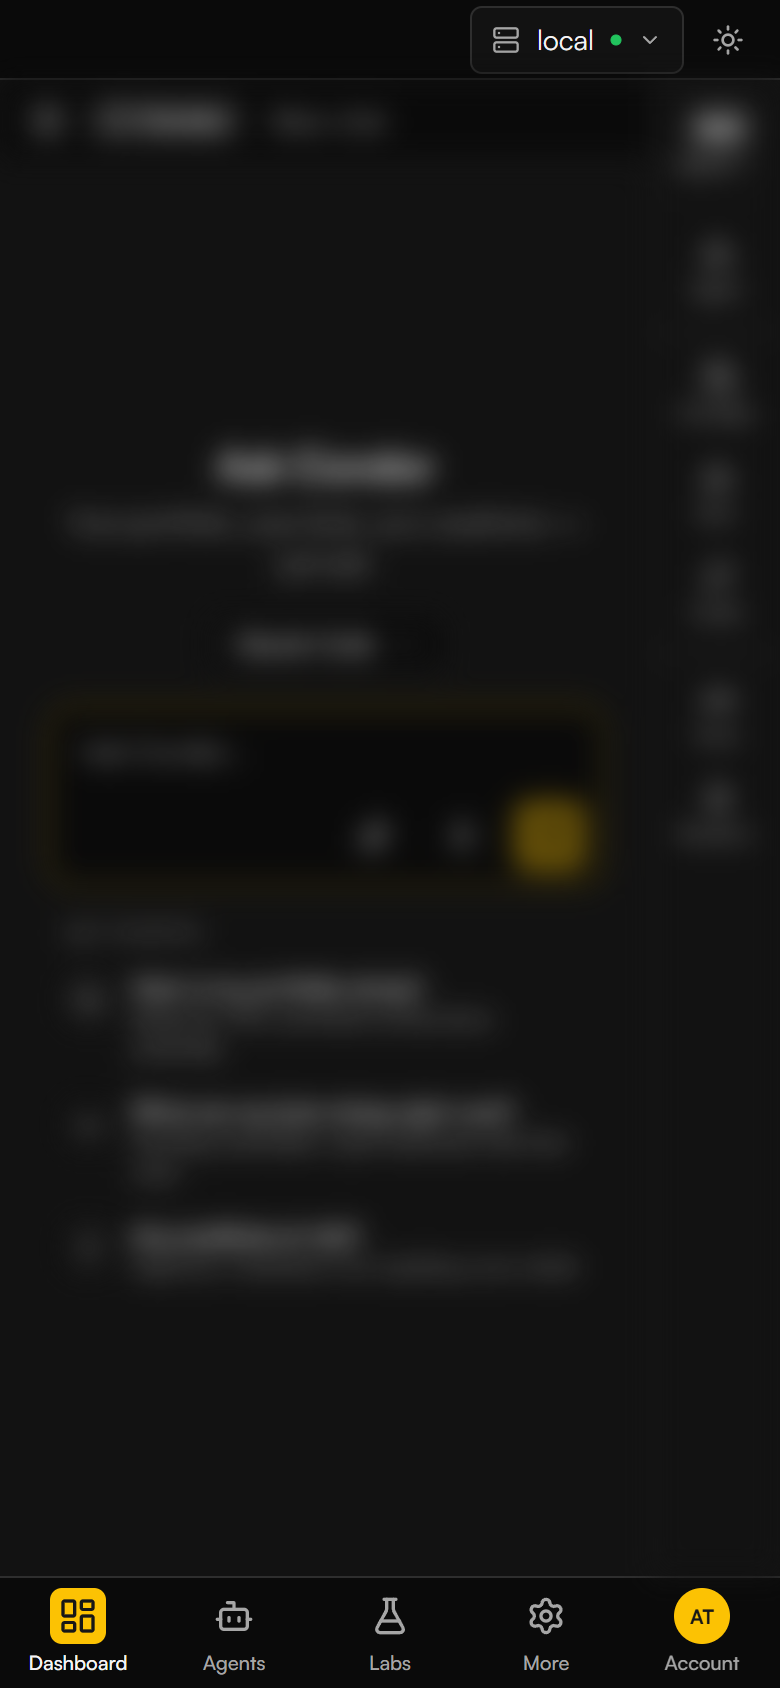
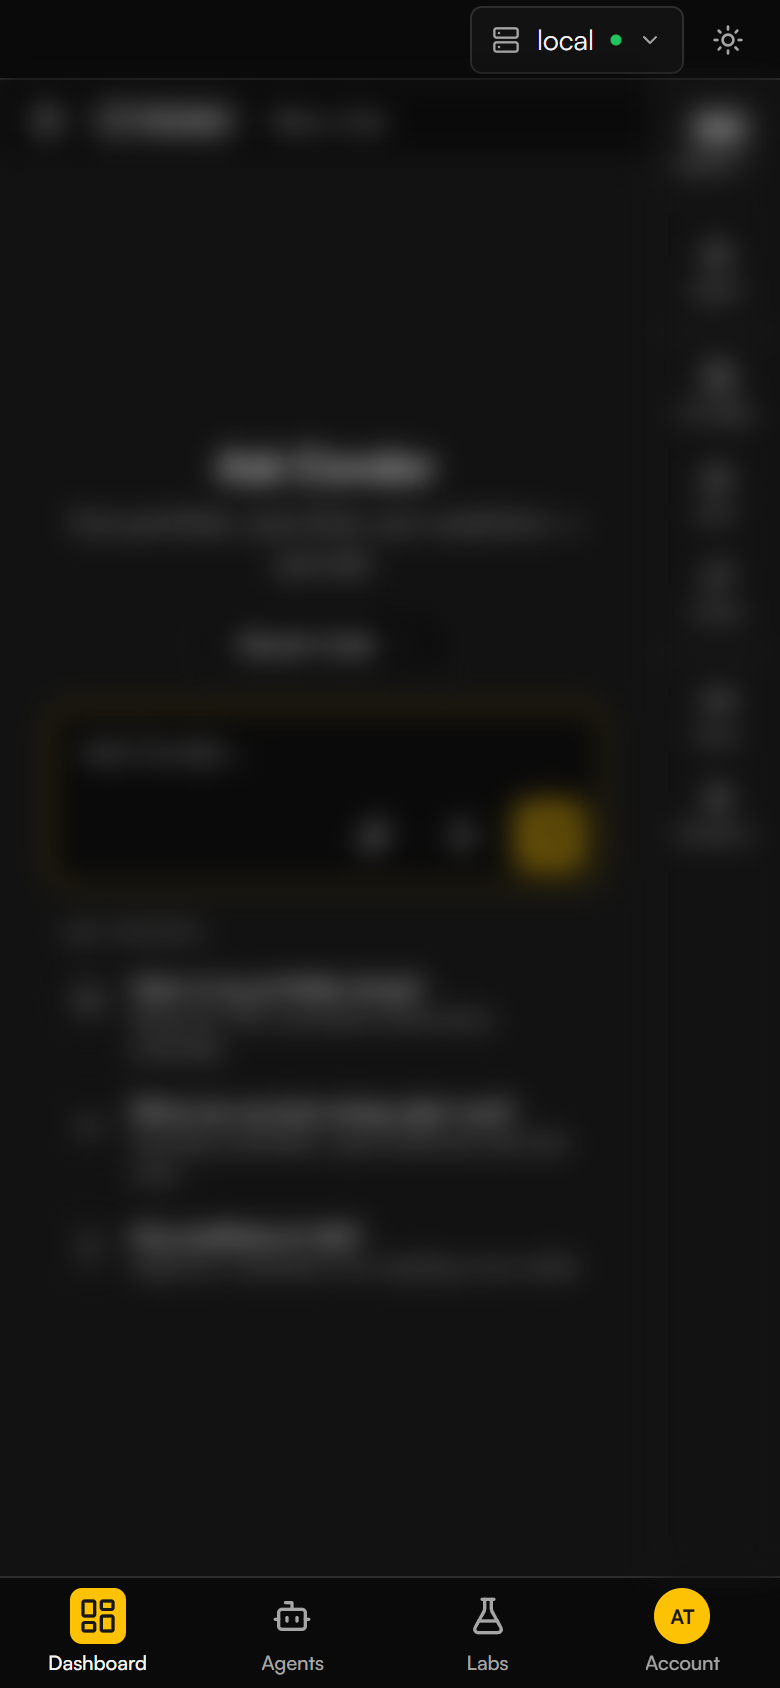
Side-rail proposal: panel design, More and Settings, four phone tabs, final images at one size

diff --git a/docs/proposals/side-rail.html b/docs/proposals/side-rail.html
@@ -16,7 +16,7 @@
 
 <h1>A left icon rail instead of the top nav</h1>
 <p class="meta">Status: <strong>in review</strong> &middot; PRs #3, #4, #6, #7 into <code>ui-redesign</code> &middot; Last updated: 2026-11-27 &middot; Branches reviewed on rn5 against an empty preview Condor</p>
-<p class="lede">Move Condor's navigation from the crowded top bar into a slim left icon rail (Dashboard, Agents, Labs and More), keep only the server, Gateway status and the mode switch in the top bar, put the user behind an initials avatar, and add a bottom tab bar on phones. The look stays the same. Only the layout changes.</p>
+<p class="lede">Move Condor's navigation from the crowded top bar into a slim left icon rail (Dashboard, Agents, Labs, More and Settings), keep only the server, Gateway status and the mode switch in the top bar, put the user behind an initials avatar, and add a bottom tab bar on phones. The look stays the same. Only the layout changes.</p>
 
 <h2 id="why">Why</h2>
 <p>The top bar carries seven page links and six controls in one 48 px strip, and it keeps growing as agents, strategies, routines and DEX tools arrive. On phones the links disappear and nothing replaces them. A left rail gives every surface a stable home and frees the top of the screen for the work.</p>
@@ -36,19 +36,25 @@
 <figure class="phone"><div class="phone-frame"><img src="assets/before-topnav-phone.png" alt="A phone showing the same Condor home: the top bar holds only the controls, with no page links"></div><figcaption>Phone (360 px wide screen, shown at its own size): no navigation links at all. The top bar holds only the controls.</figcaption></figure>
 
 <h2 id="after">After</h2>
-<p>A slim rail, a list panel, then the main area. Rail items: the logo, then Dashboard, Agents and Labs, and at the bottom More (the gear) and an initials avatar. The right side of the top bar shows only Local (the server), Gateway status and Switch Mode.</p>
+<p>A slim rail, a list panel, then the main area. Rail items: the logo, then Dashboard, Agents, Labs and More (the three dots), and at the bottom Settings (the gear) and an initials avatar. The right side of the top bar shows only Local (the server), Gateway status and Switch Mode.</p>
 
 <h3>The rail (PR #3)</h3>
-<figure class="wide"><img src="assets/rail-1-rail.png" alt="Condor with the left icon rail: Dashboard, Agents, Labs, More and the user initials; the page body is blurred. The top bar shows Local, Gateway status and Switch Mode"><figcaption>Labels appear on hover and keyboard focus. Left rail shows: Dashboard, Agents, Labs, Settings, User Initial.</figcaption></figure>
-<figure class="wide"><img src="assets/rail-2-more-menu.png" alt="The rail with the More dropdown open: Hummingbot API, Gateway, Keys and Wallets, Servers, Updates, Report an Issue; the page body is blurred"><figcaption>The More dropdown holds Hummingbot API, Gateway, Keys and Wallets, Servers, Updates and Report an Issue. The first five open the matching Settings tab.</figcaption></figure>
+<figure class="wide"><img src="assets/rail-1-rail.png" alt="Condor with the left icon rail: Dashboard, Agents, Labs, More and the user initials; the page body is blurred. The top bar shows Local, Gateway status and Switch Mode"><figcaption>Labels appear on hover and keyboard focus. Left rail shows: Dashboard, Agents, Labs, More, Settings, User Initial.</figcaption></figure>
+<figure class="wide"><img src="assets/rail-2-more-menu.png" alt="The rail with the More panel open beside it: Hummingbot API, Gateway, Keys and Wallets, Servers, Updates, Report an Issue; the page body is blurred"><figcaption>The More dots open a small vertical panel beside the rail, titled More: Hummingbot API, Gateway, Keys and Wallets, Servers, Updates and Report an Issue. The first five open the matching Settings tab.</figcaption></figure>
+
+<figure class="wide"><img src="assets/rail-3-settings-menu.png" alt="The rail with the Settings panel open beside it: Agents, LLM Endpoints, Voice and AI, Appearance, Privacy; the page body is blurred"><figcaption>The Settings gear opens a small vertical panel beside the rail, titled Settings: Agents, LLM Endpoints, Voice &amp; AI, Appearance and Privacy. It is a different list from More.</figcaption></figure>
 
 <h3>The avatar menu (PR #4)</h3>
 <figure class="wide"><img src="assets/avatar-1-menu.png" alt="The rail with the avatar popup open: the user name Algo Trader with the ADMIN role, and Logout; the page body is blurred"><figcaption>The popup shows only the user name with the ADMIN role, and Logout.</figcaption></figure>
 
 <h3>Phones (PR #6)</h3>
-<p>Below 768 px the left rail is replaced by a bottom tab bar with the same doors: Dashboard, Agents, Labs and More, plus an Account tab (the user's initials). More opens a sheet with the same six entries as the desktop menu: Hummingbot API, Gateway, Keys and Wallets, Servers, Updates and Report an Issue. The Account tab opens a sheet with the user name, Admin and Logout. There is no bell. A red dot on the Account tab means the selected server is offline.</p>
-<figure class="phone"><div class="phone-frame x2"><img src="assets/phone-1-tabbar.png" alt="A phone screen with the bottom tab bar: Dashboard, Agents, Labs, More and Account; the page body is blurred"></div><figcaption>The bottom tab bar: Dashboard, Agents, Labs, More and Account. The page body is blurred.</figcaption></figure>
-<figure class="phone"><div class="phone-frame x2"><img src="assets/phone-2-more.png" alt="A phone screen with the More sheet open: Hummingbot API, Gateway, Keys and Wallets, Servers, Updates, Report an Issue"></div><figcaption>The More sheet, with its six entries.</figcaption></figure>
+<p>Below 768 px the left rail is replaced by a bottom tab bar with four tabs: Dashboard, Agents, Labs and Account (the user's initials). The Account tab opens a sheet with the user name, Admin, then More, Settings and Logout. More and Settings open the same lists as the panels on the rail. There is no bell. A red dot on the Account tab means the selected server is offline.</p>
+<div class="phone-row">
+<figure class="phone"><div class="phone-frame x2"><img src="assets/phone-1-tabbar.png" alt="A phone screen with the bottom tab bar: Dashboard, Agents, Labs and Account; the page body is blurred"></div><figcaption>The tab bar: Dashboard, Agents, Labs and Account. The page body is blurred.</figcaption></figure>
+<figure class="phone"><div class="phone-frame x2"><img src="assets/phone-2-account.png" alt="A phone screen with the Account sheet open: Algo Trader, Admin, then More, Settings and Logout"></div><figcaption>Account opens a sheet with the name, Admin, then More, Settings and Logout.</figcaption></figure>
+<figure class="phone"><div class="phone-frame x2"><img src="assets/phone-3-more.png" alt="A phone screen with the More list: Hummingbot API, Gateway, Keys and Wallets, Servers, Updates, Report an Issue, and a back arrow"></div><figcaption>More: the six entries, with a back arrow to return to the Account sheet.</figcaption></figure>
+<figure class="phone"><div class="phone-frame x2"><img src="assets/phone-4-settings.png" alt="A phone screen with the Settings list: Agents, LLM Endpoints, Voice and AI, Appearance, Privacy, and a back arrow"></div><figcaption>Settings: the five entries, with a back arrow. An open sheet covers the tab bar.</figcaption></figure>
+</div>
 
 <h3>Labs page (PR #7)</h3>
 <figure class="wide"><img src="assets/labs-1-page.png" alt="The Labs page: the Labs door in the rail is lit and the page body is blurred"><figcaption>New <code>/labs</code> page. It will hold three tools: Design, Backtest and Test Run. The page content is a placeholder for now and is blurred in the image. The old <code>/strategies</code> address redirects to <code>/labs</code>.</figcaption></figure>
@@ -57,9 +63,9 @@
 <table>
   <thead><tr><th>PR</th><th>Branch</th><th>Scope</th><th>Review status</th></tr></thead>
   <tbody>
-    <tr><td>#3</td><td><code>ui/side-rail</code></td><td>Left icon rail replaces the top bar (Dashboard, Agents, Labs, More); top bar keeps Local, Gateway status, Switch Mode; More menu with six entries; bell removed</td><td class="s tweak">Works, tweaks 1</td></tr>
+    <tr><td>#3</td><td><code>ui/side-rail</code></td><td>Left icon rail replaces the top bar (Dashboard, Agents, Labs, More with three dots); Settings gear at the foot with its own panel; top bar keeps Local, Gateway status, Switch Mode; bell removed</td><td class="s tweak">Works, tweaks 1</td></tr>
     <tr><td>#4</td><td><code>ui/account-menu</code></td><td>Avatar menu shows only the user name with role, and Logout</td><td class="s ok">Built, works</td></tr>
-    <tr><td>#6</td><td><code>ui/mobile-nav</code></td><td>Bottom tab bar on phone widths (Dashboard, Agents, Labs, More, Account); More and Account sheets; no bell</td><td class="s tweak">Works, tweaks 2 and 3</td></tr>
+    <tr><td>#6</td><td><code>ui/mobile-nav</code></td><td>Bottom tab bar on phone widths (Dashboard, Agents, Labs, Account); the Account sheet holds More, Settings and Logout; no bell</td><td class="s tweak">Works, tweaks 2 and 3</td></tr>
     <tr><td>#7</td><td><code>ui/strategies-page</code></td><td><code>/labs</code> page (placeholder body); <code>/strategies</code> redirects to it</td><td class="s todo">Placeholder only</td></tr>
   </tbody>
 </table>
@@ -69,11 +75,13 @@
 <ol>
   <li><strong>Hover-only labels (#3).</strong> Icons have no visible text, and hover does not exist on phones. Also, the chat page now shows two rails side by side: the new left one and the existing right-hand panel rail (Layout, Agent, Portfolio, Tasks, Routines). Consider visible labels or a clearer split.</li>
   <li><strong>Panel rail on phones (#6).</strong> The right-hand panel rail still takes about 60 px of a 390 px screen, so the chat is squeezed. The proposal says the tab bar "replaces the rail"; that is true for the left rail only.</li>
-  <li><strong>Account tab (#6).</strong> Whether the phone bar has four tabs or five (with Account) is not decided. The Account tab keeps Logout reachable on a phone; dropping it is a one-line change.</li>
   <li><strong>Labs before #7 (#3, #6).</strong> If #3 to #6 are merged without #7, the Labs door and tab open the Not Found page.</li>
-  <li><strong>Dashboard (#3).</strong> There is no stats page yet. Dashboard is still the chat home, which is why the images show it blurred.</li>
+  <li><strong>Dashboard (#3).</strong> There is no stats page yet. The Dashboard door on the rail and on the phone still opens the chat home, which is why the images show it blurred.</li>
+  <li><strong>Settings entries (#3).</strong> All five Settings entries (Agents, LLM Endpoints, Voice &amp; AI, Appearance, Privacy) open a real Settings tab. The Notifications and Admin tabs are no longer listed in the panels; they are reachable only from inside the Settings page.</li>
+  <li><strong>Panel quirks (#3, #4).</strong> Dashboard stays lit on the chat home while a panel is open, so two rail items can look lit. The avatar popup covers the Settings gear while it is open.</li>
   <li><strong>Labs content (#7).</strong> The page is a placeholder. Design, Backtest and Test Run still have to be built.</li>
-  <li><strong>Notifications (#3).</strong> The bell is no longer in the shell, so notifications have no entry point until a home for them is decided.</li>
+  <li><strong>Lost entry points (#3, #4).</strong> The notification bell, the display currency and Run setup again have no place in the new layout yet. Decision: fine for now, a place is to be found later.</li>
+  <li><strong>Next proposal.</strong> The Dashboard page (stats) is the next proposal to build.</li>
 </ol>
 <p>Not checked yet: light theme, colour-blind mode, a real phone, and pages that need a Hummingbot server with data (Portfolio, Bots, Trade).</p>
 
@@ -85,6 +93,7 @@
 <table>
   <thead><tr><th>Date</th><th>Change</th><th>Reason / source</th><th>PR</th></tr></thead>
   <tbody>
+    <tr><td>2026-11-27</td><td>Rail revised again: More is back as the three-dot item after Labs, Settings is a separate gear item with its own panel (Agents, LLM Endpoints, Voice &amp; AI, Appearance, Privacy); the phone bar has four tabs (Dashboard, Agents, Labs, Account) and the Account sheet holds More, Settings and Logout; all desktop images retaken at 1280 by 700 at 2x and shown at one width; Dashboard page noted as the next proposal</td><td>User decisions on the open questions</td><td>#3, #6</td></tr>
     <tr><td>2026-11-27</td><td>Final images for the rail, avatar menu, phone tab bar and Labs page, all retaken at 2x in the dark theme with the page body blurred and only the navigation sharp; phones now shown inside the phone frame, one per row; Phones section rewritten for the new tab bar (Dashboard, Agents, Labs, More, Account) and the six-entry More sheet; open points added for the Account tab, Labs before #7 and the Dashboard</td><td>User review of the proposal; PRs #3, #4, #6 and #7 merged down in order</td><td>#3, #4, #6, #7</td></tr>
     <tr><td>2026-11-27</td><td>Rail proposal revised after review: rail items are Dashboard, Agents, Labs and More; top bar right side is Local, Gateway status and Switch Mode; More lists Hummingbot API, Gateway, Keys and Wallets, Servers, Updates and Report an Issue; bell removed; avatar popup reduced to the user name with role, and Logout; the Strategies page became the Labs page; the Chat list search and filter section (PR #8) was dropped by decision. Page bodies are blurred in the new images so the navigation stands out</td><td>User review of the proposal</td><td>#3, #4, #6, #7</td></tr>
     <tr><td>2026-11-27</td><td>"Before" images retaken from the old top-nav build, one per row: the full desktop screen at 1280 px, and the phone screen inside a CSS phone frame (same treatment as the onboarding page). The old phone image showed the keys overlay, not the top bar. "After" images unchanged</td><td>User review: larger Before images so the text is readable</td><td>#13</td></tr>

diff --git a/docs/proposals/styles.css b/docs/proposals/styles.css
@@ -69,3 +69,7 @@ figure.phone figcaption { text-align: center; }
 figure.phone .phone-frame img { border: 0; border-radius: 28px; width: 100%; max-width: 100%; display: block; }
 /* A 2x phone screen (780 px wide) is shown at its own 390 px size */
 .phone-frame.x2 { width: 390px; }
+/* Phone screens: two per row when they fit, otherwise one per row */
+.phone-row { display: flex; flex-wrap: wrap; justify-content: center; gap: 8px 24px; }
+.phone-row figure.phone { margin: 0.5rem 0 1rem; max-width: 420px; }
+.phone-row figure.phone figcaption { max-width: 390px; }
